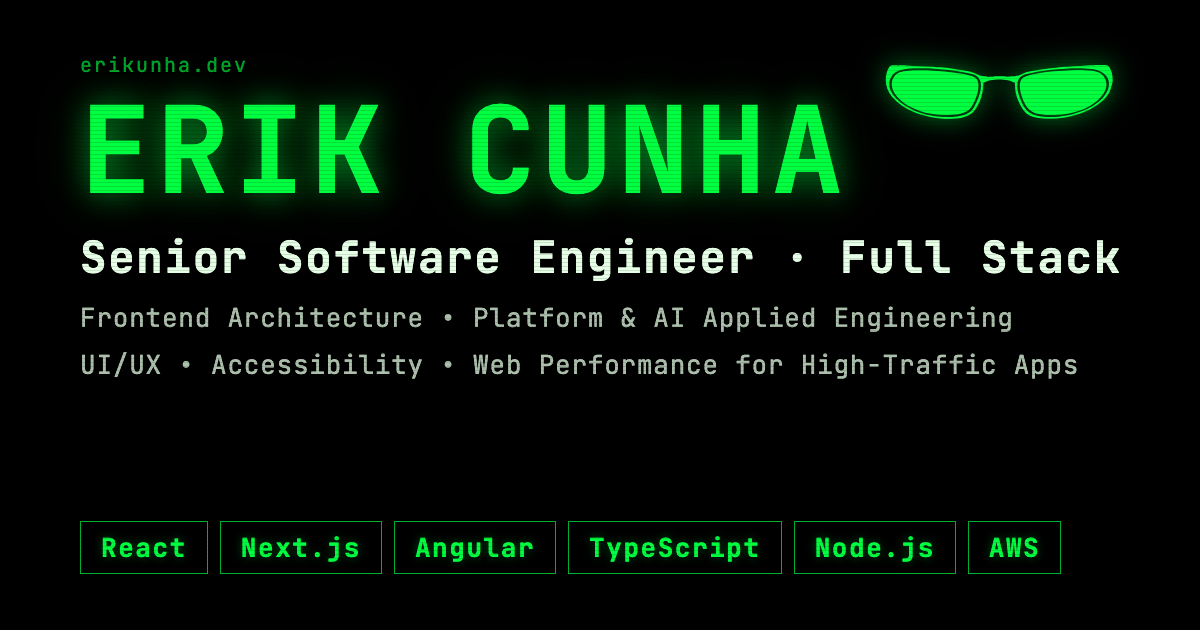
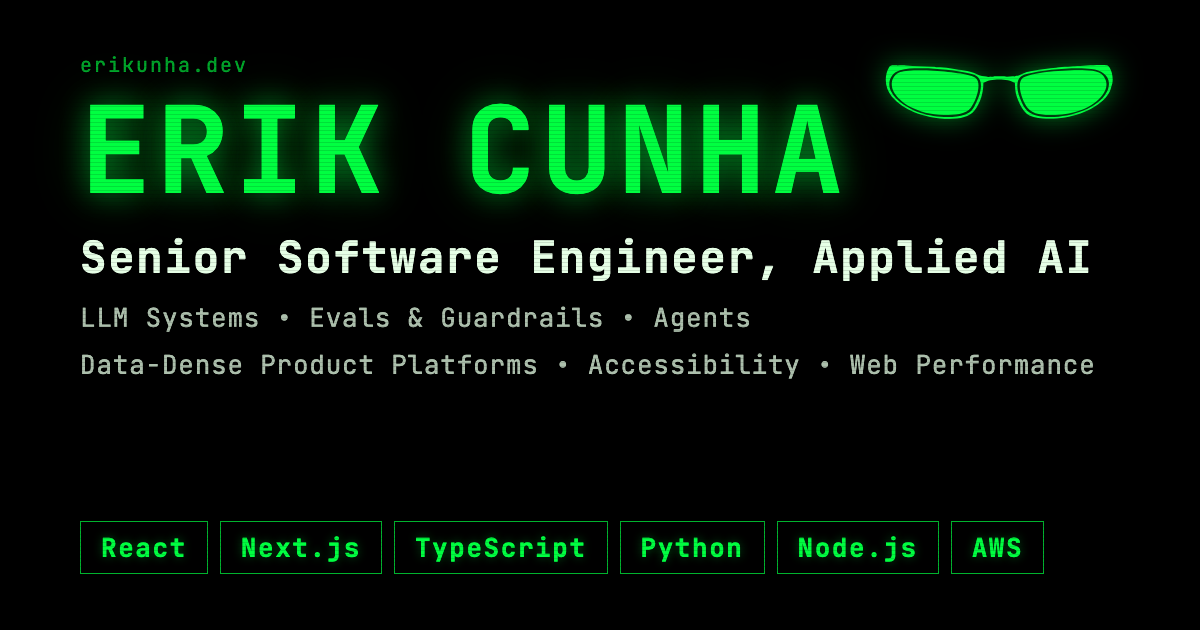
test(e2e): pin the /cv print length to the resume bullets and refresh the OG card
Root cause: /cv now prints the resume context lines and bullets per job instead of one
commit-style line, so the pinned 3 A4 pages no longer describes the page, and the social
card still carried the Full Stack subtitle and tags.

Before: /cv printed on 3 pages in both locales, the card read "Senior Software Engineer ·
Full Stack" over frontend subtitles.
After: the print spec pins the measured length per locale (6 pages English, 7 pt-BR, against
the 4-page resume PDF), and public/og.png is regenerated from the updated generator.

diff --git a/tests/e2e/reading-shell.spec.ts b/tests/e2e/reading-shell.spec.ts
@@ -5,7 +5,10 @@ import { SITE_LOCALE } from '../../content/site-locale';
 const DESKTOP = { width: 1280, height: 800 };
 const PHONE = { width: 390, height: 844 };
 const CENTER_TOLERANCE_PX = 1;
-const EXPECTED_PRINT_PAGES = { summary: 1, cv: 3 } as const;
+const EXPECTED_PRINT_PAGES = {
+  summary: { '': 1, '/pt': 1 },
+  cv: { '': 6, '/pt': 7 },
+} as const;
 const PDF_PAGE_PATTERN = /\/Type\s*\/Page[^s]/g;
 const MAIN = 'main#main-content';
 
@@ -181,8 +184,8 @@ test.describe('print hides the shell', () => {
     });
   }
 
-  for (const [name, expected] of Object.entries(EXPECTED_PRINT_PAGES)) {
-    for (const prefix of ['', '/pt']) {
+  for (const [name, byPrefix] of Object.entries(EXPECTED_PRINT_PAGES)) {
+    for (const [prefix, expected] of Object.entries(byPrefix)) {
       test(`${prefix}/${name} prints on ${expected} A4 page${expected === 1 ? '' : 's'}`, async ({
         page,
       }) => {

diff --git a/scripts/generate-og-image.ts b/scripts/generate-og-image.ts
@@ -147,7 +147,6 @@ function buildHtml(): string {
   <div class="stack">
     <span class="tag">React</span>
     <span class="tag">Next.js</span>
-    <span class="tag">Angular</span>
     <span class="tag">TypeScript</span>
     <span class="tag">Python</span>
     <span class="tag">Node.js</span>
